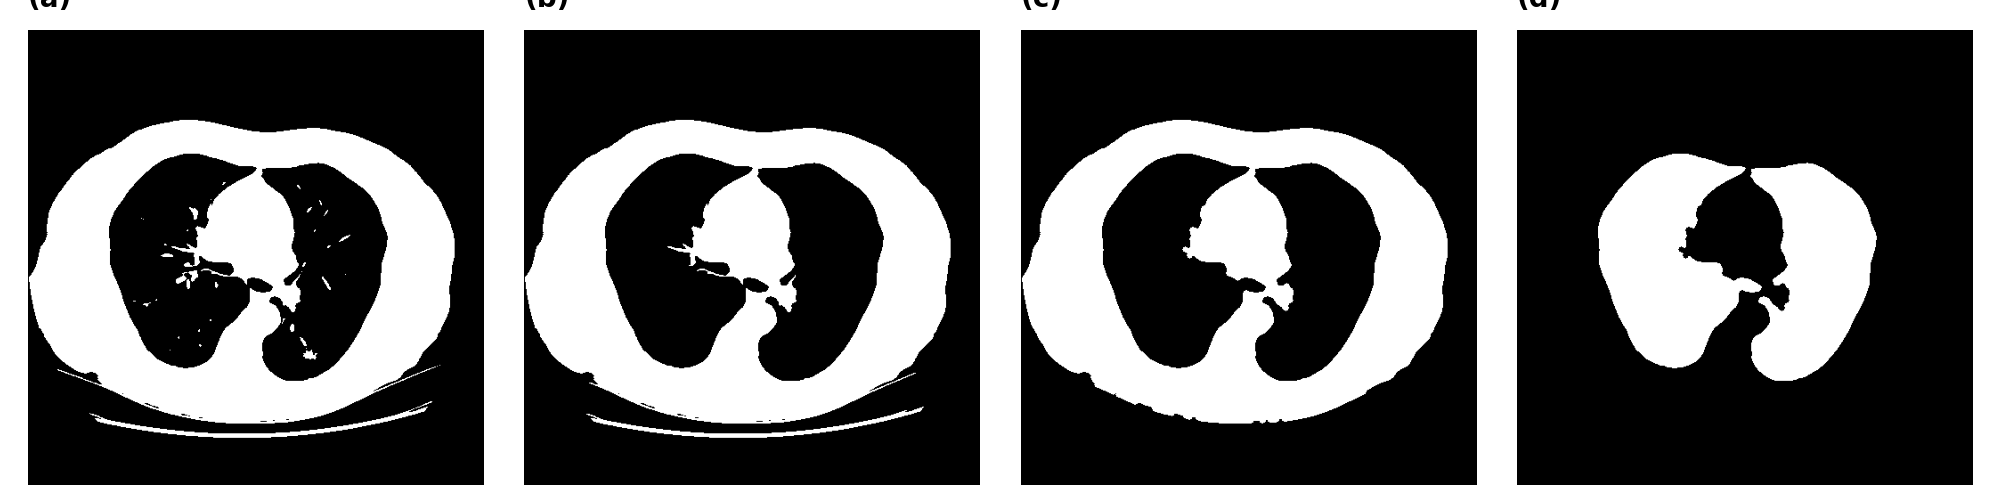
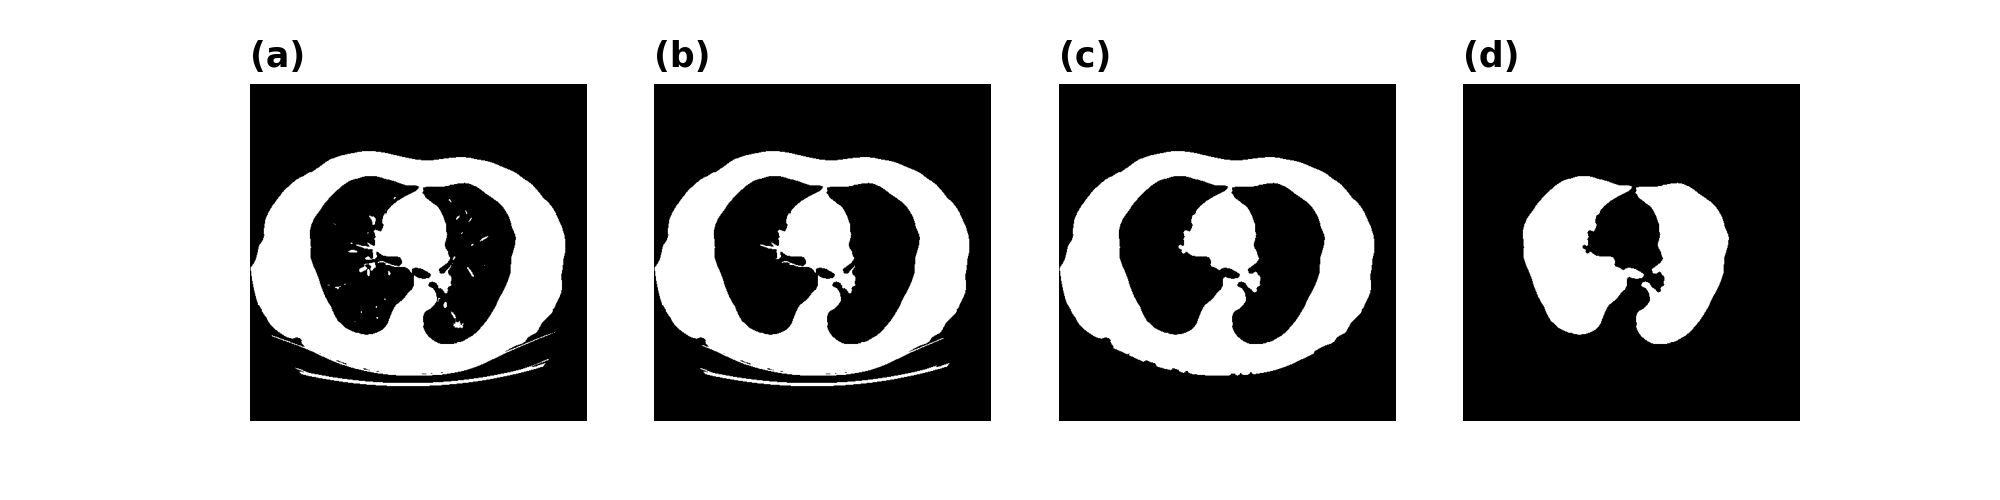
Implemented ct segmentation script

diff --git a/scripts/ct_segmentation.py b/scripts/ct_segmentation.py
@@ -1,0 +1,99 @@
+"""
+Script to segment the lungs in a CT image.
+
+Usage:
+python ./scripts/ct_segmentation.py --img ./data/CT.png --output_dir ./figures
+"""
+
+import sys
+import os
+import argparse
+import matplotlib.pyplot as plt
+import numpy as np
+from os.path import join
+
+# add project path to sys.path
+project_root = os.path.abspath(os.path.join(os.path.dirname(__file__), ".."))
+sys.path.append(project_root)
+
+from src.custom_segmentation import otsu_threshold, find_regions, create_disk, binary_opening
+from src.plotting import plot_image_mask_overlay
+
+# Parse the arguments
+parser = argparse.ArgumentParser(description='Segment the lungs in a CT image')
+parser.add_argument('--img', default='./data/CT.png', type=str, help='Path to CT image')
+parser.add_argument('--output_dir', default='./figures', type=str, help='Path to output directory')
+args = parser.parse_args()
+
+# Load the image
+image_path = args.img
+image = plt.imread(image_path)
+image = np.mean(image, axis=-1)
+
+fig, axes = plt.subplots(1, 4, figsize=(20, 5))
+
+# Otsu's thresholding
+threshold = otsu_threshold(image)
+binary_image = image > threshold
+axes[0].imshow(binary_image, cmap='gray')
+axes[0].text(0, 1.05, '(a)', fontsize=25, transform=axes[0].transAxes, fontweight="bold")
+
+# Find foreground regions
+labelled_image, _ = find_regions(binary_image, forground_only=True)
+
+# Remove small regions
+sizes = np.bincount(labelled_image.flatten())
+
+mask_sizes = sizes >= 500
+mask_sizes[0] = 0  # Background should not be counted
+
+img = mask_sizes[labelled_image]
+
+axes[1].imshow(img, cmap='gray')
+axes[1].text(0, 1.05, '(b)', fontsize=25, transform=axes[1].transAxes, fontweight="bold")
+
+# Binary opening
+selem = create_disk(3)
+img = binary_opening(img, selem)
+axes[2].imshow(img, cmap='gray')
+axes[2].text(0, 1.05, '(c)', fontsize=25, transform=axes[2].transAxes, fontweight="bold")
+
+# Find lung regions
+img, n_regions = find_regions(1 - img, forground_only=True)
+regions = list(range(1, n_regions+1))
+
+# remove background label from regions
+background_label = img[0, 0]
+regions.remove(background_label)
+
+# get two largest remaining regions (lungs)
+if len(regions) > 2:
+    regions.sort(key=lambda x: -np.sum(img == x))
+    regions = regions[:2]
+        
+# create segmentation mask of the two lungs
+mask = np.zeros_like(img)
+for region in regions:
+    mask[img == region] = 1
+
+axes[3].imshow(mask, cmap='gray')
+axes[3].text(0, 1.05, '(d)', fontsize=25, transform=axes[3].transAxes, fontweight="bold")
+
+for ax in axes:
+    ax.axis('off')
+
+fig.savefig(join(args.output_dir, 'CT_steps.png'))
+
+# Plot the original image and the segmentation mask overlay
+fig, axes = plt.subplots(1, 2, figsize=(10, 5))
+
+axes[0].imshow(image, cmap='gray')
+axes[0].text(0, 1.05, '(a)', fontsize=20, transform=axes[0].transAxes, fontweight="bold")
+
+plot_image_mask_overlay(image, mask, axes[1], dim_factor=0.3, cmap='gray', border_color='yellow')
+axes[1].text(0, 1.05, '(b)', fontsize=20, transform=axes[1].transAxes, fontweight="bold")
+
+for ax in axes:
+    ax.axis('off')
+
+fig.savefig(join(args.output_dir, 'CT_segmentation.png'))

diff --git a/src/plotting.py b/src/plotting.py
@@ -1,0 +1,13 @@
+from skimage import measure
+import numpy as np
+
+def plot_image_mask_overlay(image, mask, ax, dim_factor=0.3, cmap=None, border_color='yellow'):
+    """
+    Plot an image with a segmentation mask overlaid.
+    """
+    dimmed_image = image * dim_factor
+    result_image = np.where(mask==1, image, dimmed_image)
+    ax.imshow(result_image, cmap=cmap)
+    contours = measure.find_contours(mask, 0.5)
+    for contour in contours:
+        ax.plot(contour[:, 1], contour[:, 0], linewidth=1, color=border_color)
